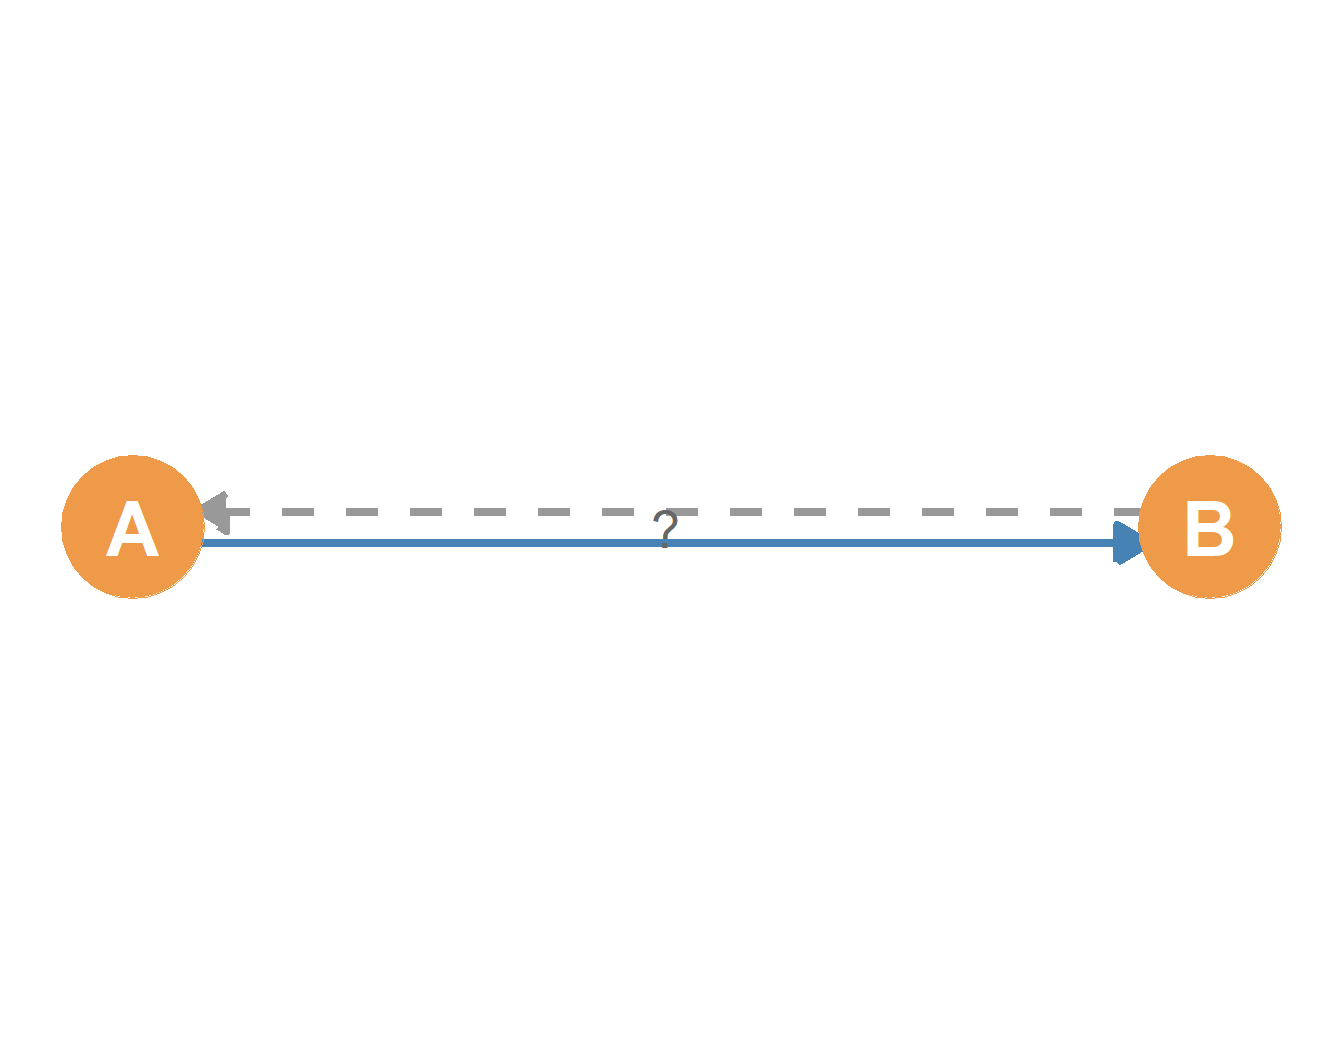
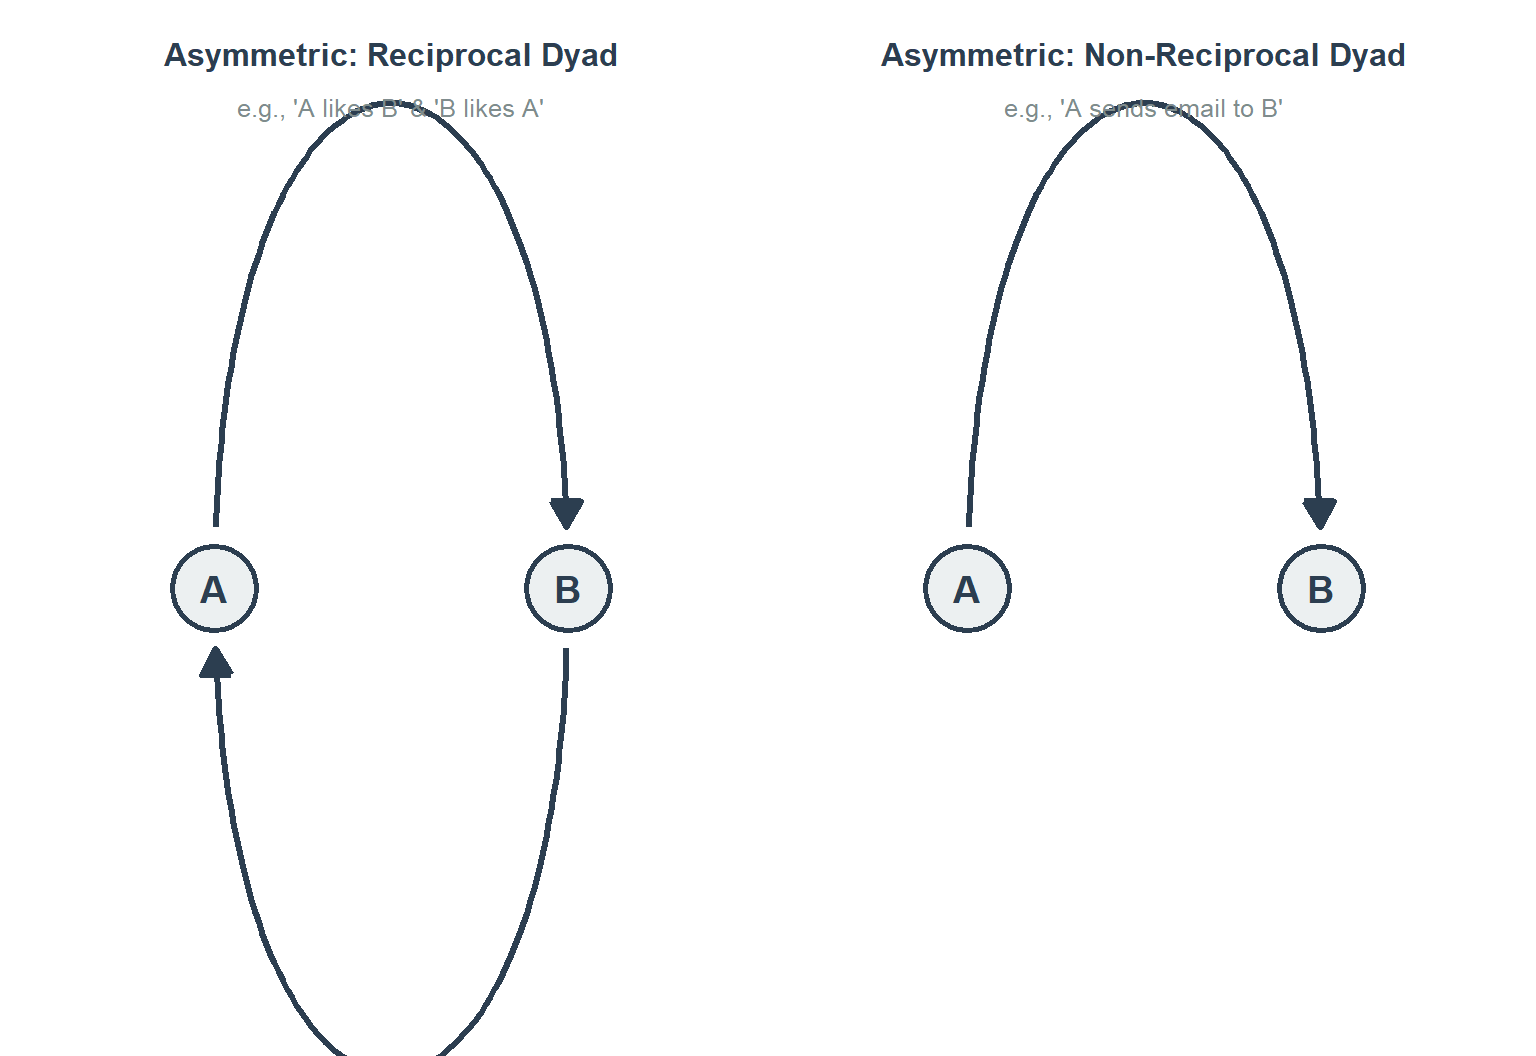
new pub

diff --git a/slides/ties-motifs.html b/slides/ties-motifs.html
@@ -285,7 +285,7 @@
 <div class="cell-output-display">
 <div class="quarto-figure quarto-figure-center">
 <figure>
-<p><img data-src="ties-motifs_files/figure-revealjs/unnamed-chunk-2-1.png" class="quarto-figure quarto-figure-center" width="672"></p>
+<p><img data-src="ties-motifs_files/figure-revealjs/unnamed-chunk-2-1.png" class="quarto-figure quarto-figure-center" width="768"></p>
 </figure>
 </div>
 </div>
@@ -360,44 +360,64 @@
 <li class="fragment">These relations represent irreversible flows or asymmetric structures.</li>
 </ul>
 </section>
-<section id="mapping-sociological-to-graph-theoretic-classifications" class="slide level2">
-<h2>Mapping Sociological to Graph-Theoretic Classifications</h2>
-<table class="caption-top">
+<section id="mapping-social-ties-to-graphs" class="slide level2">
+<h2>Mapping Social Ties to Graphs</h2>
+<div style="font-size: 0.60em;">
+<table class="caption-top" style="width:100%;">
 <colgroup>
-<col style="width: 25%">
-<col style="width: 25%">
-<col style="width: 25%">
-<col style="width: 25%">
+<col style="width: 16%">
+<col style="width: 16%">
+<col style="width: 16%">
+<col style="width: 16%">
+<col style="width: 16%">
+<col style="width: 16%">
 </colgroup>
 <thead>
 <tr class="header">
-<th style="text-align: left;">Sociological Classification (Types of Ties)</th>
-<th style="text-align: left;">Graph-Theoretic Classification (Mathematical Properties)</th>
+<th style="text-align: left;">Category</th>
+<th style="text-align: left;">Sociological Type</th>
+<th style="text-align: left;">Graph-Theoretic Class</th>
+<th style="text-align: left;">Mathematical Properties</th>
 <th style="text-align: left;">Allowed Dyads</th>
-<th style="text-align: left;">Visual Graph Representation</th>
+<th style="text-align: left;">Examples</th>
 </tr>
 </thead>
 <tbody>
 <tr class="odd">
-<td style="text-align: left;"><strong>Co-membership, Propinquity</strong></td>
-<td style="text-align: left;"><strong>Symmetric</strong></td>
-<td style="text-align: left;">• Disconnected<br>• Connected</td>
-<td style="text-align: left;">Undirected Graph (<span class="math inline">\(A - B\)</span>)</td>
+<td style="text-align: left;"><strong>States</strong></td>
+<td style="text-align: left;"><strong>Similarities</strong></td>
+<td style="text-align: left;"><strong>Undirected Graph</strong></td>
+<td style="text-align: left;">Symmetric (<span class="math inline">\(AB \iff BA\)</span>)</td>
+<td style="text-align: left;">Connected / Disconnected</td>
+<td style="text-align: left;">Co-membership, propinquity, shared attributes</td>
 </tr>
 <tr class="even">
-<td style="text-align: left;"><strong>Sentiments, Advice-seeking</strong></td>
-<td style="text-align: left;"><strong>Asymmetric</strong></td>
-<td style="text-align: left;">• Disconnected<br>• Non-reciprocal<br>• Reciprocal</td>
-<td style="text-align: left;">Directed Graph (<span class="math inline">\(A \rightarrow B\)</span> or <span class="math inline">\(A \leftrightarrow B\)</span>)</td>
+<td style="text-align: left;"><strong>States</strong></td>
+<td style="text-align: left;"><strong>Social Relations</strong></td>
+<td style="text-align: left;"><strong>Undirected or Directed</strong></td>
+<td style="text-align: left;">Symmetric, Asymmetric, or Anti-symmetric</td>
+<td style="text-align: left;">Reciprocal, Non-reciprocal, Disconnected</td>
+<td style="text-align: left;">Friendship (Sym), Liking (Asym), Kinship/Boss (Anti-sym)</td>
 </tr>
 <tr class="odd">
-<td style="text-align: left;"><strong>Formal Hierarchies, Kinship</strong></td>
-<td style="text-align: left;"><strong>Anti-symmetric</strong></td>
-<td style="text-align: left;">• Disconnected<br>• Non-reciprocal</td>
-<td style="text-align: left;">Oriented Graph/Tree (<span class="math inline">\(A \rightarrow B\)</span>, no cycles)</td>
+<td style="text-align: left;"><strong>Events</strong></td>
+<td style="text-align: left;"><strong>Interactions</strong></td>
+<td style="text-align: left;"><strong>Directed Graph</strong></td>
+<td style="text-align: left;">Asymmetric (<span class="math inline">\(AB \implies\)</span> optional <span class="math inline">\(BA\)</span>)</td>
+<td style="text-align: left;">Reciprocal, Non-reciprocal, Disconnected</td>
+<td style="text-align: left;">Texting, advice-seeking, helping</td>
+</tr>
+<tr class="even">
+<td style="text-align: left;"><strong>Events</strong></td>
+<td style="text-align: left;"><strong>Flows</strong></td>
+<td style="text-align: left;"><strong>Directed Graph</strong></td>
+<td style="text-align: left;">Asymmetric / Directed</td>
+<td style="text-align: left;">Non-reciprocal, Disconnected</td>
+<td style="text-align: left;">Gossip, transactions, virus transmission</td>
 </tr>
 </tbody>
 </table>
+</div>
 </section>
 <section id="multiplexity-in-social-relations" class="slide level2">
 <h2>Multiplexity in Social Relations</h2>
